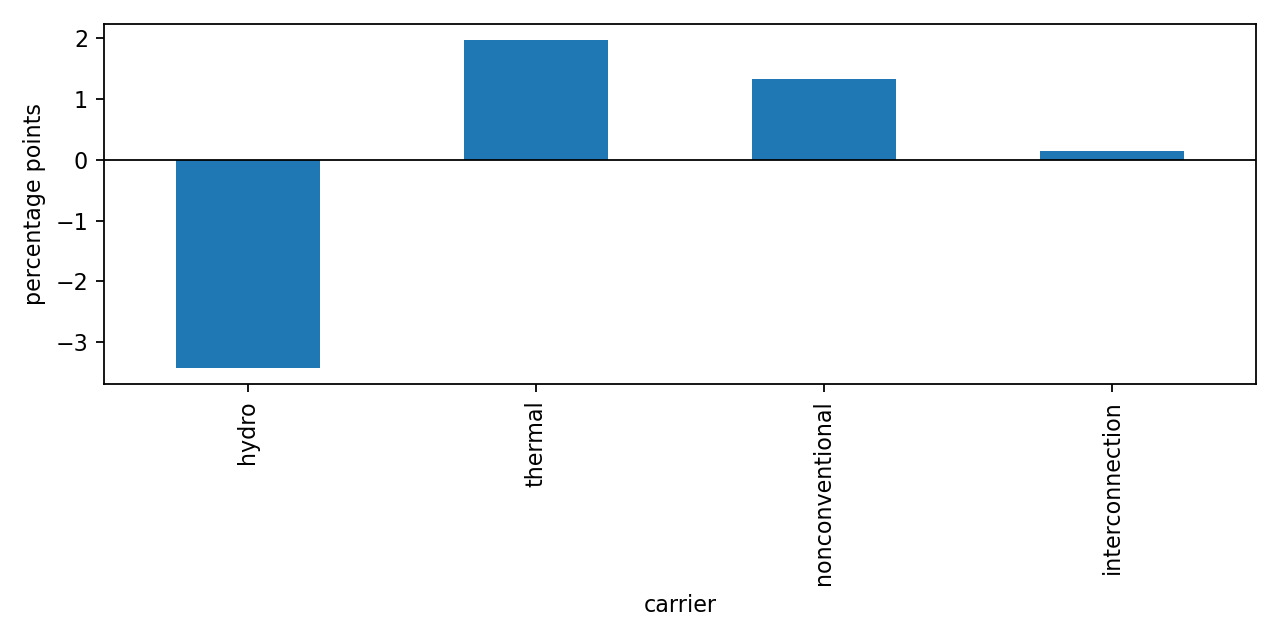
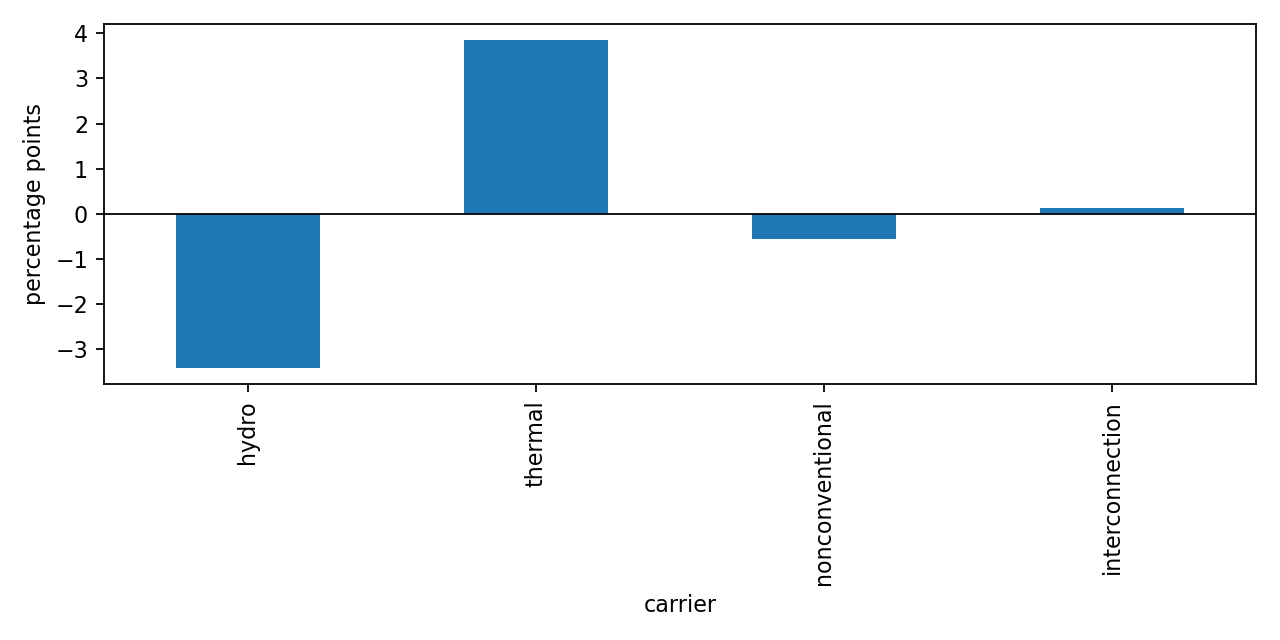
further calibration and validation. Models still need to be adjusted.

diff --git a/reports/PHASE_06B_2022_VALIDATION_RUN_INTERIM_REPORT.md b/reports/PHASE_06B_2022_VALIDATION_RUN_INTERIM_REPORT.md
@@ -1,0 +1,84 @@
+# Phase 06B interim report: NLR wind and biomass validation run
+
+Date: 2026-10-17  
+Branch: `v1-phase-06b-2022-validation-calibration`  
+Environment: `pypsa-earth-ec`
+
+## Result
+
+Generated notebooks 00, 01, 02, 03, 04, 05, 06, and 06a completed successfully.
+The annual 2022 solve used HiGHS and returned `ok` / `optimal` after 918,004
+simplex iterations. The validation gate remains `FAIL`; comparability remains
+`PARTIAL`; thresholds were not changed.
+
+| Item | Result |
+|---|---:|
+| Snapshots | 8,760 hourly |
+| Reference total | 28,684.61 GWh |
+| Simulated total | 27,753.18 GWh |
+| Total relative difference | 3.25% |
+| TVD | 0.03980 |
+| Load shedding | 0.0078 GWh |
+| Energy-balance residual | 2.54e-10 GWh |
[1 lines of base64/hex data omitted]
+
+## Carrier comparison
+
+| Carrier | Reference GWh | Simulated GWh | Relative error | Share error (pp) |
+|---|---:|---:|---:|---:|
+| Hydro | 24,499.54 | 22,756.12 | -7.12% | -3.415 |
+| Thermal | 3,393.35 | 4,349.36 | +28.17% | +3.842 |
+| Nonconventional | 325.89 | 158.58 | -51.34% | -0.565 |
+| Interconnection | 465.83 | 489.12 | +5.00% | +0.138 |
+
+The detailed outputs are `results/phase_06/validation_2022.csv` and
+`results/phase_06/validation_summary.json`. The unresolved 931.43 GWh source
+boundary residual remains report-only, so total-energy screening remains
+disabled.
+
+## 06a diagnostic
+
+| Carrier | Dispatch GWh | Potential GWh | Curtailment GWh |
+|---|---:|---:|---:|
+| Hydro | 22,756.12 | 26,894.11 | 4,137.99 |
+| Oil | 4,349.36 | 18,062.07 | 13,712.71 |
+| Biomass | 83.48 | 195.68 | 112.20 |
+| Biogas | 37.00 | 72.88 | 35.89 |
+| Onshore wind | 4.22 | 4.93 | 0.70 |
+| Solar | 33.88 | 33.88 | 0.00 |
+
+Biomass potential equals the imposed 195.68 GWh CENACE calibration control,
+but dispatch is only 83.48 GWh. The monthly profile is therefore an availability
+ceiling, not a forced production target, and biomass is not independent
+validation evidence in this run.
+
+The NLR comparison produced 37.96 GWh for Huascachaca and 3.58 GWh for
+Villonaco before the model's commissioning treatment. The direct NLR profiles
+are materially better resource evidence than the legacy 2.036 GWh combined
+profile, but the current turbine curve and commissioning/capacity scope still
+require review against CENACE/CNEL plant-level data.
+
+## Recommended actions
+
+1. Review hub height, turbine curve, commissioning dates, and plant capacity
+   before scaling NLR profiles toward the 57.00 GWh CENACE reference. Do not
+   force the annual total by arbitrary scaling.
+2. Keep biomass, biogas, wind, and solar separate in the next validation review;
+   aggregate nonconventional supply is affected by the biomass calibration
+   control.
+3. Investigate the 1,743.42 GWh hydro deficit using monthly hydro and 06a
+   congestion diagnostics. Reservoir/cascade refinement remains deferred.
+4. Investigate the 956.01 GWh thermal overproduction through plant-level
+   availability, marginal costs, outages, and source-boundary definitions.
+5. Keep the 5% thresholds unchanged and retain the 931.43 GWh residual as
+   report-only until the CENACE/ARCONEL boundary bridge is closed.
+
+## Reproducible outputs
+
+- Annual validation: `results/phase_06/validation_summary.json`
+- Solved network metadata: `results/phase_06/artifacts.json`
+- 06a diagnostics: `results/phase_06a/dispatch_by_carrier.csv`
+- Wind comparison: `results/phase_06b/wind_profile_source_comparison_2022.csv`
+- Biomass diagnostics: `results/phase_06b/biomass_profile_diagnostics_2022.csv`
+
+No thresholds were changed and no reservoir/cascade physics were added.
